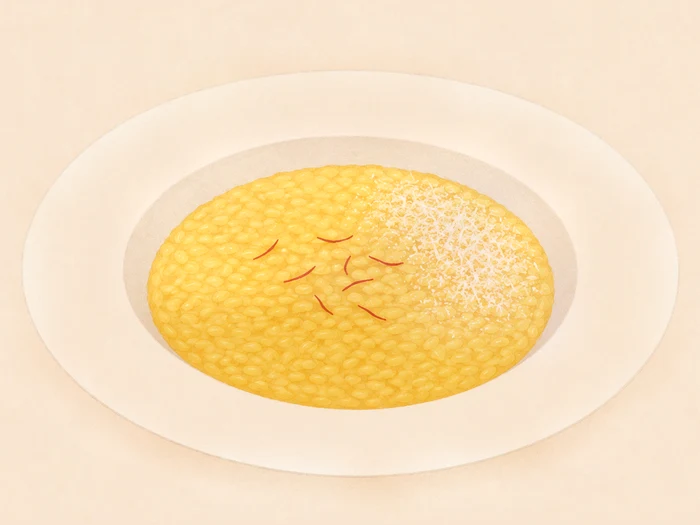
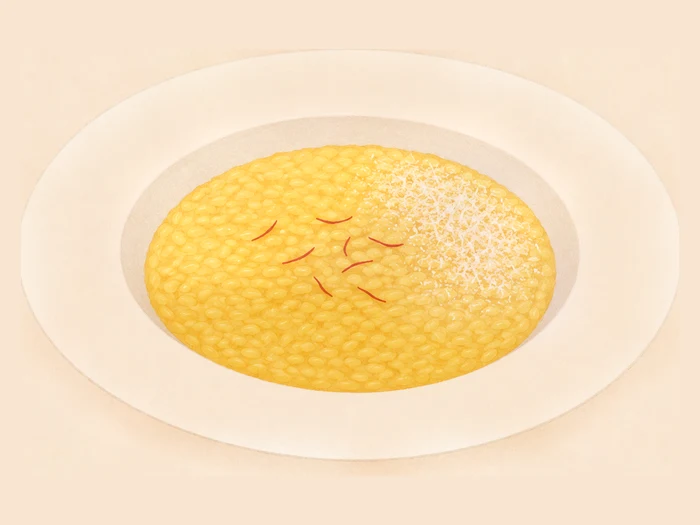
切圖流程寫成 assets/crop_dish.py，並修正兩個參數
每次換圖都是照技能的描述重打一次腳本，所以每次的容差都是重新寫死的，
每次踩不同的坑。存成檔案，參數連同「為什麼是這個值」一起固定下來。

    切一張   python3 assets/crop_dish.py 原圖.png 13
    切 2×2   python3 assets/crop_dish.py 原圖.png 11 10 --grid 2x2 --cells TL,BL
    只修底色 python3 assets/crop_dish.py --fix-bg assets/dish/r14.webp

⚠ SOLID 從 8 改成 18。我先前為了抓白盤把容差從 34 一路收到 8，那是矯枉過正 ——
8 會把紙紋和淡陰影都算成主體，框整個膨脹，主體縮成小小一團浮在卡片中間。
實測：r17 白盤 34→1102×728（切到盤）、18→1300×844（對）、8→1424×1068（幾乎整張）；
r10 小碟 8→712×476、18→558×334（真正的碗）。

⚠ 2×2 的直格線要「每一排各自算」。掃整個高度的話，上下兩排的器皿加起來
沒有任何一欄是空的，就會回退成硬切 W/2，隔壁那格的盤子會從邊緣露進來。
實測下排的格線在 x=625 不是 724。

橫格線同理不能用 H/2（r11 的盤子跨過中線，實際空白帶在 y=597）。
FILL 0.94，撐到 1.0 會切掉器皿邊緣。

r10、r11、r17 用新參數重切。

diff --git a/index.html b/index.html
@@ -808,7 +808,7 @@ ol.steps li::before {
    ══════════════════════════════════════════════ */
 
 /* 素材版本。換過圖就 bump 一次，否則瀏覽器會一直用舊的快取 */
-const ASSETS = '48';
+const ASSETS = '49';
 const asset = p => p + '?v=' + ASSETS;
 
 const $ = (s, el = document) => el.querySelector(s);

diff --git a/assets/crop_dish.py b/assets/crop_dish.py
@@ -1,0 +1,204 @@
+#!/usr/bin/env python3
+"""菜色圖切圖：ChatGPT 生的原圖 → assets/dish/rN.webp（700×525）。
+
+    切一張      python3 assets/crop_dish.py 原圖.png 13
+    切 2×2      python3 assets/crop_dish.py 原圖.png 11 10 --grid 2x2 --cells TL,BL
+    只修底色    python3 assets/crop_dish.py --fix-bg assets/dish/r14.webp
+
+每一段的參數都是踩到才調出來的，改之前先看註解。改完記得把 index.html 的
+`const ASSETS` 加一號 —— 檔名沒變，不加號瀏覽器會一直吃舊的。
+"""
+import argparse, os, statistics as st, sys
+from collections import deque
+from PIL import Image, ImageFilter
+
+TGT = (249, 230, 209)     # #F9E6D1，必須跟 index.html 的 --bg 完全一致
+OUT_W, OUT_H = 700, 525
+FILL = 0.94               # ⚠ 不要調到 1.0：撐滿會把器皿邊緣切掉（r17、r11 各踩過一次）
+SOLID = 18                # 兩邊都會出事，18 是實測的中間值：
+                          #  · 太寬（34）→ 白色器皿被判成背景，整圈盤子被切掉
+                          #  · 太窄（8） → 連紙紋和淡陰影都算進去，框會膨脹，
+                          #    主體縮成小小一團浮在卡片中間（r10、r11 踩過）
+                          #  r17 白盤：34→1102×728（切到盤）、18→1300×844（對）、
+                          #  8→1424×1068（幾乎整張）。r10 小碟：8→712×476、18→558×334。
+QLO, QHI = 0.001, 0.999   # ⚠ 邊界用分位數不用 min/max —— 一顆雜點就會把框拉到整張。
+
+d = lambda c, t: sum(abs(c[i] - t[i]) for i in range(3))
+
+
+def flat_field(im):
+    """把背景壓成 TGT。整體位移沒用 —— 原圖的背景是有漸層的暈影，
+    要估成一張低頻圖再逐像素扣掉。回傳 (校正後的圖, 原本的底色)。"""
+    W, H = im.size
+    px = im.load()
+    edge = [(4, 4), (W // 2, 4), (W - 5, 4), (4, H // 2),
+            (W - 5, H // 2), (4, H - 5), (W // 2, H - 5), (W - 5, H - 5)]
+    bg = tuple(int(st.median([px[x, y][i] for x, y in edge])) for i in range(3))
+
+    N = 14
+    gw, gh = max(1, W // N), max(1, H // N)
+    grid = [[None] * N for _ in range(N)]
+    for gy in range(N):
+        for gx in range(N):
+            v = [px[x, y]
+                 for y in range(gy * gh, min((gy + 1) * gh, H), 6)
+                 for x in range(gx * gw, min((gx + 1) * gw, W), 6)
+                 if d(px[x, y], bg) < 34]
+            if len(v) > 12:
+                grid[gy][gx] = tuple(int(st.median([q[i] for q in v])) for i in range(3))
+    ok = [(gy, gx) for gy in range(N) for gx in range(N) if grid[gy][gx]]
+    if not ok:
+        sys.exit('找不到背景 —— 這張圖的底色跟預期差太多，先確認是不是菜色圖')
+    for gy in range(N):                                   # 被菜擋住的格子用最近的有效格補
+        for gx in range(N):
+            if grid[gy][gx] is None:
+                ny, nx = min(ok, key=lambda p: (p[0] - gy) ** 2 + (p[1] - gx) ** 2)
+                grid[gy][gx] = grid[ny][nx]
+
+    est = Image.new('RGB', (N, N))
+    est.putdata([grid[gy][gx] for gy in range(N) for gx in range(N)])
+    est = est.resize((W, H), Image.BICUBIC).filter(ImageFilter.GaussianBlur(28)).load()
+
+    out = Image.new('RGB', (W, H))
+    op = out.load()
+    for y in range(H):
+        for x in range(W):
+            c, e = px[x, y], est[x, y]
+            op[x, y] = tuple(max(0, min(255, c[i] - (e[i] - TGT[i]))) for i in range(3))
+    return out, bg
+
+
+def gaps(flat, x0, x1, lo, hi, axis):
+    """找格與格之間的空白帶。⚠ 不要用 W/2、H/2 硬切 ——
+    2×2 的盤子常常跨過中線，硬切會把盤緣削掉（r11 實際的空白帶在 y=601 不是 543）。"""
+    f = flat.load()
+    prof = []
+    for k in range(lo, hi):
+        rng = range(x0, x1, 3)
+        n = sum(1 for j in rng if d(f[(j, k) if axis == 'y' else (k, j)], TGT) > SOLID)
+        prof.append(n / max(1, len(list(rng))))
+    band = [lo + i for i, v in enumerate(prof) if v < 0.02 and 0.3 < i / len(prof) < 0.7]
+    return int(st.median(band)) if band else (lo + hi) // 2
+
+
+def render(flat, box, path):
+    l, r, t, b = box
+    sc = min(OUT_W * FILL / (r - l), OUT_H * FILL / (b - t))
+    nw, nh = int((r - l) * sc), int((b - t) * sc)
+    out = Image.new('RGB', (OUT_W, OUT_H), TGT)
+    out.paste(flat.crop((l, t, r, b)).resize((nw, nh), Image.LANCZOS),
+              ((OUT_W - nw) // 2, (OUT_H - nh) // 2))
+    out.save(path, 'WEBP', quality=88)
+    print(f'    {os.path.basename(path):<12} 主體 {r-l}×{b-t} → {nw}×{nh}'
+          f'，留白 {(OUT_W-nw)//2}/{(OUT_H-nh)//2}px'
+          f' · {round(os.path.getsize(path)/1024)} KB')
+
+
+def bbox(flat, x0, x1, y0, y1):
+    f = flat.load()
+    xs, ys = [], []
+    for y in range(y0, y1, 2):
+        for x in range(x0, x1, 2):
+            if d(f[x, y], TGT) > SOLID:
+                xs.append(x); ys.append(y)
+    if len(xs) < 200:
+        sys.exit(f'這一格幾乎全是背景（{x0},{y0}）–（{x1},{y1}）—— 格線切錯了？')
+    xs.sort(); ys.sort()
+    q = lambda a, p: a[int(p * (len(a) - 1))]
+    return q(xs, QLO), q(xs, QHI), q(ys, QLO), q(ys, QHI)
+
+
+def fix_bg(path):
+    """只把外圍背景壓到 TGT，不動菜。
+    ⛔ 不能整張位移 —— 偏差大的時候（r14 差 24，幾乎全在藍通道）會把菜洗淡。
+    做法：從四邊 flood fill，只有連得到畫面邊緣的像素才算背景，器皿和食物碰不到邊。"""
+    im = Image.open(path).convert('RGB')
+    W, H = im.size
+    px = im.load()
+    _, bg = flat_field(im)
+    est_im, _ = flat_field(im)          # 借它的低頻估計
+    est = est_im.load()
+
+    mask = Image.new('L', (W, H), 0)
+    mp = mask.load()
+    seen = bytearray(W * H)
+    q = deque()
+    for x in range(W):
+        for y in (0, H - 1):
+            if not seen[y * W + x]:
+                seen[y * W + x] = 1; q.append((x, y))
+    for y in range(H):
+        for x in (0, W - 1):
+            if not seen[y * W + x]:
+                seen[y * W + x] = 1; q.append((x, y))
+    while q:
+        x, y = q.popleft()
+        if d(px[x, y], est[x, y]) >= 22:
+            continue
+        mp[x, y] = 255
+        for dx, dy in ((1, 0), (-1, 0), (0, 1), (0, -1)):
+            nx, ny = x + dx, y + dy
+            if 0 <= nx < W and 0 <= ny < H and not seen[ny * W + nx]:
+                seen[ny * W + nx] = 1; q.append((nx, ny))
+    mask = mask.filter(ImageFilter.GaussianBlur(3))
+    mk = mask.load()
+
+    out = Image.new('RGB', (W, H))
+    op = out.load()
+    for y in range(H):
+        for x in range(W):
+            c, e, m = px[x, y], est[x, y], mk[x, y] / 255
+            op[x, y] = tuple(max(0, min(255, round(c[i] - (e[i] - TGT[i]) * m))) for i in range(3))
+    out.save(path, 'WEBP', quality=88)
+    o = out.load()
+    chk = [o[a, b] for a, b in [(3, 3), (W // 2, 3), (W - 4, 3), (3, H // 2), (W - 4, H - 4)]]
+    print(f'    {os.path.basename(path):<12} 底色 {bg} 差 {d(bg,TGT):>2}'
+          f'  →  差 {max(d(c,TGT) for c in chk)}')
+
+
+CELLS = {'TL': (0, 0), 'TR': (1, 0), 'BL': (0, 1), 'BR': (1, 1)}
+
+ap = argparse.ArgumentParser()
+ap.add_argument('src')
+ap.add_argument('ids', nargs='*', help='食譜編號，依 --cells 的順序')
+ap.add_argument('--grid', default='1x1', help='1x1 或 2x2')
+ap.add_argument('--cells', default='TL', help='TL,TR,BL,BR —— 只切要的那幾格')
+ap.add_argument('--fix-bg', action='store_true', help='只修底色，不重切')
+a = ap.parse_args()
+
+if a.fix_bg:
+    print('只修外圍背景，不動菜：')
+    fix_bg(a.src)
+    sys.exit()
+
+im = Image.open(a.src).convert('RGB')
+W, H = im.size
+print(f'  來源 {W}×{H}')
+flat, bg = flat_field(im)
+print(f'  底色 {bg} 差 {d(bg, TGT)} → 已壓到 {TGT}')
+
+want = [c.strip().upper() for c in a.cells.split(',')]
+if len(want) != len(a.ids):
+    sys.exit(f'--cells 有 {len(want)} 格，但給了 {len(a.ids)} 個編號')
+
+if a.grid == '2x2':
+    ys = gaps(flat, 0, int(W * 0.47), 0, H, 'y')
+    rows = [(0, ys), (ys, H)]
+    # ⚠ 直格線要「每一排各自算」。掃整個高度的話，上下兩排的器皿加起來
+    #    沒有任何一欄是空的，就會回退成硬切 W/2 —— 隔壁那格的盤子會從
+    #    邊緣露進來（r10 踩過，右邊冒出半個盤子）。
+    cols = [ [(0, x), (x, W)] for x in
+             (gaps(flat, y0, y1, 0, W, 'x') for y0, y1 in rows) ]
+    print(f'  格線：y={ys}（硬切會是 {H//2}）'
+          f' · x 上排={cols[0][0][1]}、下排={cols[1][0][1]}（硬切會是 {W//2}）')
+else:
+    rows, cols = [(0, H)], [[(0, W)]]
+
+for cell, rid in zip(want, a.ids):
+    cx, cy = CELLS[cell]
+    y0, y1 = rows[cy] if cy < len(rows) else rows[0]
+    band = cols[cy] if cy < len(cols) else cols[0]
+    x0, x1 = band[cx] if cx < len(band) else band[0]
+    render(flat, bbox(flat, x0, x1, y0, y1), f'assets/dish/r{rid}.webp')
+
+print('\n  ⚠ 別忘了把 index.html 的 const ASSETS 加一號。')
